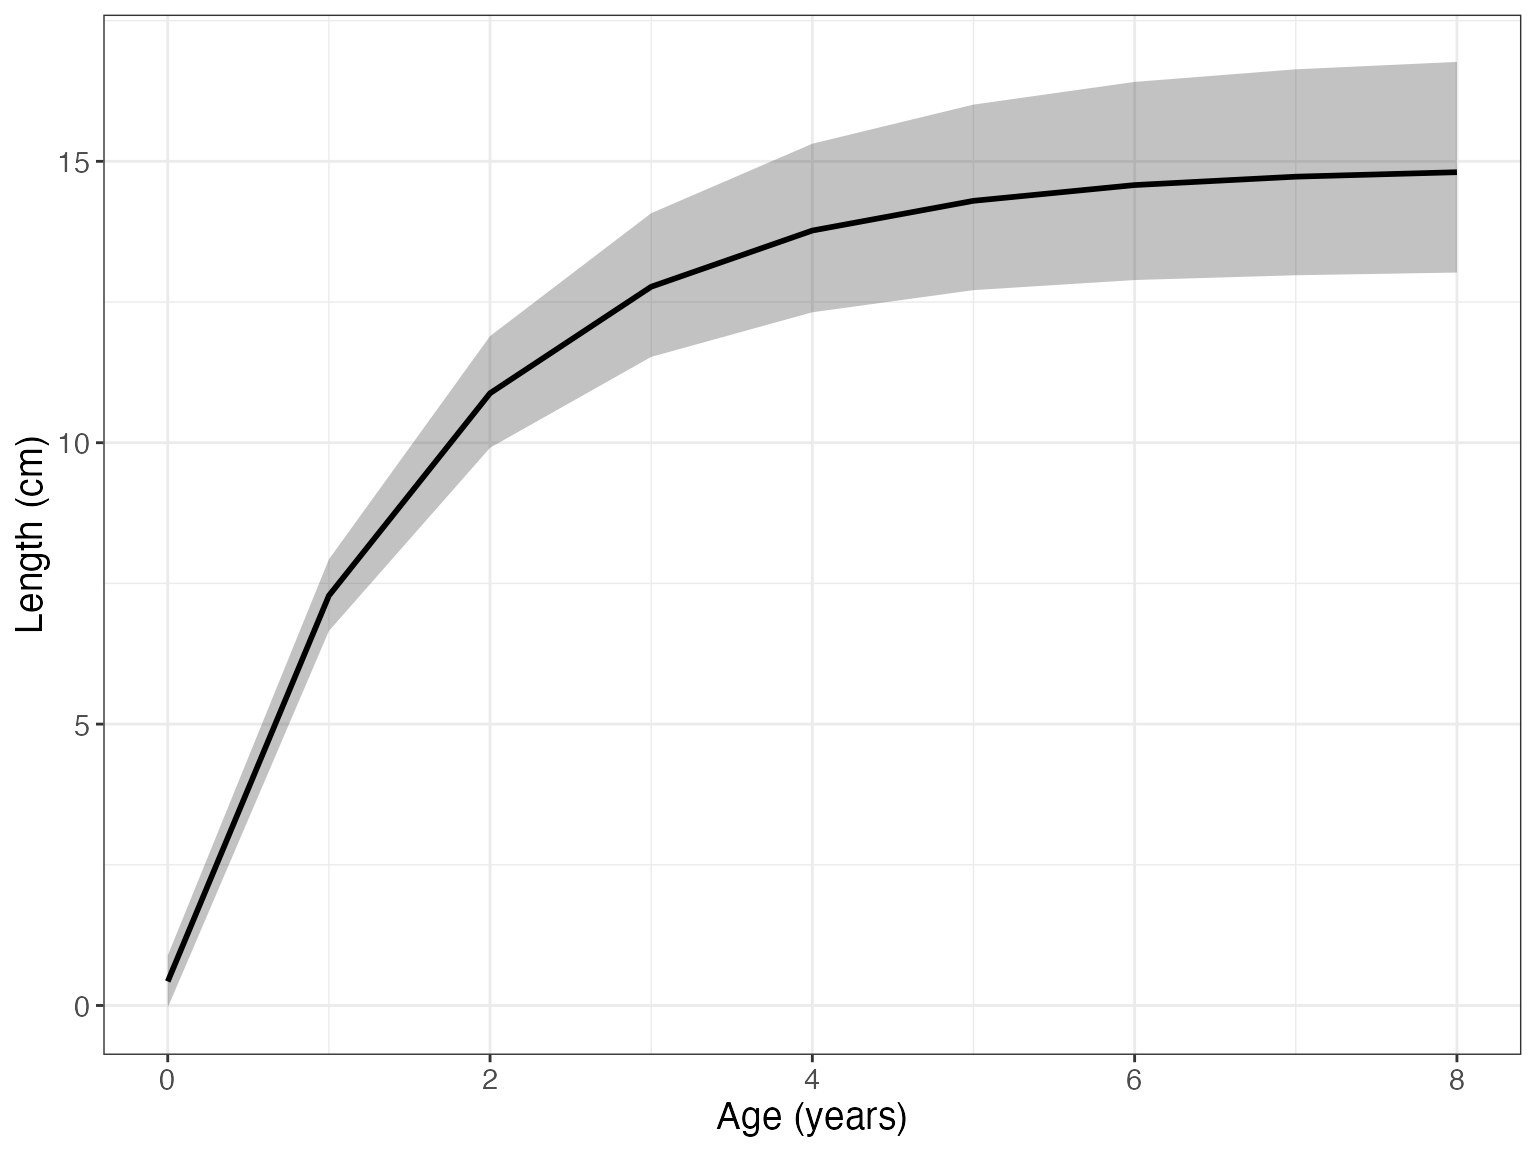
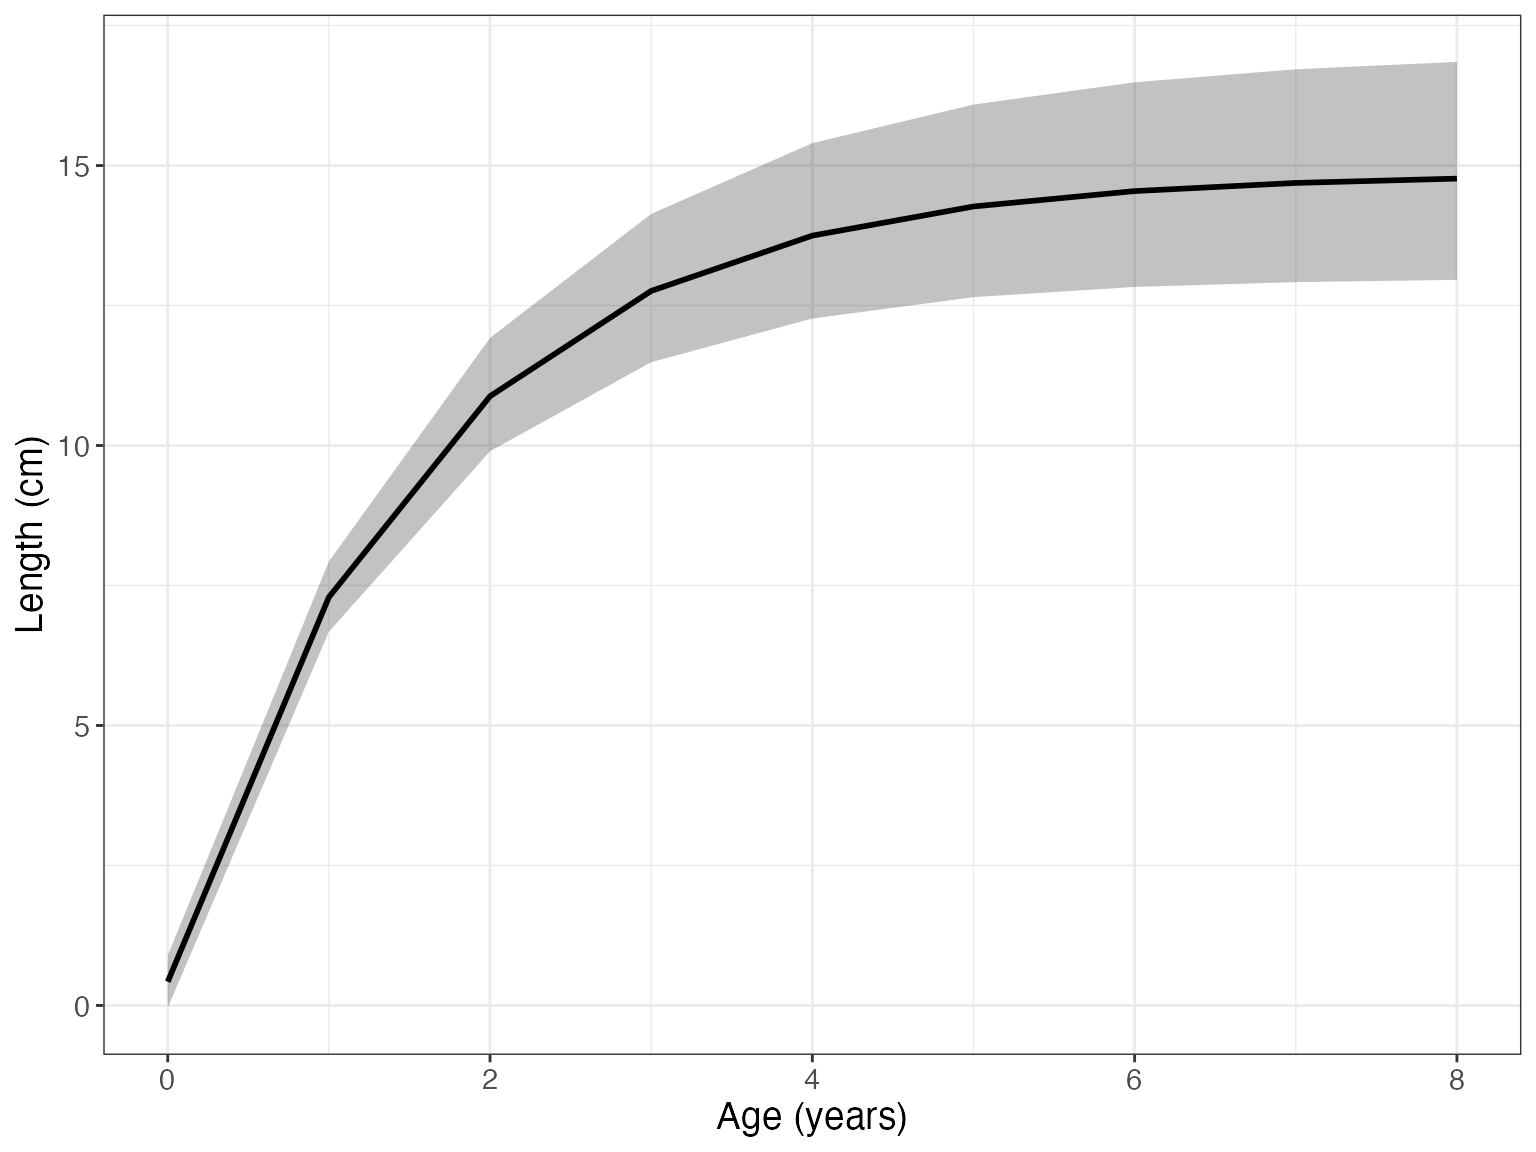
Built site for fishgrowbot: 0.0.0.9@e4bd919

diff --git a/articles/introduction.html b/articles/introduction.html
@@ -109,8 +109,8 @@
 <span class="co">#&gt; </span>
 <span class="co">#&gt; SAMPLING FOR MODEL 'stan_bcalc' NOW (CHAIN 1).</span>
 <span class="co">#&gt; Chain 1: </span>
-<span class="co">#&gt; Chain 1: Gradient evaluation took 4.2e-05 seconds</span>
-<span class="co">#&gt; Chain 1: 1000 transitions using 10 leapfrog steps per transition would take 0.42 seconds.</span>
+<span class="co">#&gt; Chain 1: Gradient evaluation took 4.1e-05 seconds</span>
+<span class="co">#&gt; Chain 1: 1000 transitions using 10 leapfrog steps per transition would take 0.41 seconds.</span>
 <span class="co">#&gt; Chain 1: Adjust your expectations accordingly!</span>
 <span class="co">#&gt; Chain 1: </span>
 <span class="co">#&gt; Chain 1: </span>
@@ -127,15 +127,15 @@
 <span class="co">#&gt; Chain 1: Iteration: 1800 / 2000 [ 90%]  (Sampling)</span>
 <span class="co">#&gt; Chain 1: Iteration: 2000 / 2000 [100%]  (Sampling)</span>
 <span class="co">#&gt; Chain 1: </span>
-<span class="co">#&gt; Chain 1:  Elapsed Time: 0.675487 seconds (Warm-up)</span>
-<span class="co">#&gt; Chain 1:                0.208583 seconds (Sampling)</span>
-<span class="co">#&gt; Chain 1:                0.88407 seconds (Total)</span>
+<span class="co">#&gt; Chain 1:  Elapsed Time: 0.718332 seconds (Warm-up)</span>
+<span class="co">#&gt; Chain 1:                0.202083 seconds (Sampling)</span>
+<span class="co">#&gt; Chain 1:                0.920415 seconds (Total)</span>
 <span class="co">#&gt; Chain 1: </span>
 <span class="co">#&gt; </span>
 <span class="co">#&gt; SAMPLING FOR MODEL 'stan_bcalc' NOW (CHAIN 2).</span>
 <span class="co">#&gt; Chain 2: </span>
-<span class="co">#&gt; Chain 2: Gradient evaluation took 2.4e-05 seconds</span>
-<span class="co">#&gt; Chain 2: 1000 transitions using 10 leapfrog steps per transition would take 0.24 seconds.</span>
+<span class="co">#&gt; Chain 2: Gradient evaluation took 2.2e-05 seconds</span>
+<span class="co">#&gt; Chain 2: 1000 transitions using 10 leapfrog steps per transition would take 0.22 seconds.</span>
 <span class="co">#&gt; Chain 2: Adjust your expectations accordingly!</span>
 <span class="co">#&gt; Chain 2: </span>
 <span class="co">#&gt; Chain 2: </span>
@@ -152,9 +152,9 @@
 <span class="co">#&gt; Chain 2: Iteration: 1800 / 2000 [ 90%]  (Sampling)</span>
 <span class="co">#&gt; Chain 2: Iteration: 2000 / 2000 [100%]  (Sampling)</span>
 <span class="co">#&gt; Chain 2: </span>
-<span class="co">#&gt; Chain 2:  Elapsed Time: 0.734206 seconds (Warm-up)</span>
-<span class="co">#&gt; Chain 2:                0.23753 seconds (Sampling)</span>
-<span class="co">#&gt; Chain 2:                0.971736 seconds (Total)</span>
+<span class="co">#&gt; Chain 2:  Elapsed Time: 0.625257 seconds (Warm-up)</span>
+<span class="co">#&gt; Chain 2:                0.219762 seconds (Sampling)</span>
+<span class="co">#&gt; Chain 2:                0.845019 seconds (Total)</span>
 <span class="co">#&gt; Chain 2: </span>
 <span class="co">#&gt; </span>
 <span class="co">#&gt; SAMPLING FOR MODEL 'stan_bcalc' NOW (CHAIN 3).</span>
@@ -177,15 +177,15 @@
 <span class="co">#&gt; Chain 3: Iteration: 1800 / 2000 [ 90%]  (Sampling)</span>
 <span class="co">#&gt; Chain 3: Iteration: 2000 / 2000 [100%]  (Sampling)</span>
 <span class="co">#&gt; Chain 3: </span>
-<span class="co">#&gt; Chain 3:  Elapsed Time: 0.646115 seconds (Warm-up)</span>
-<span class="co">#&gt; Chain 3:                0.191009 seconds (Sampling)</span>
-<span class="co">#&gt; Chain 3:                0.837124 seconds (Total)</span>
+<span class="co">#&gt; Chain 3:  Elapsed Time: 0.666348 seconds (Warm-up)</span>
+<span class="co">#&gt; Chain 3:                0.208402 seconds (Sampling)</span>
+<span class="co">#&gt; Chain 3:                0.87475 seconds (Total)</span>
 <span class="co">#&gt; Chain 3: </span>
 <span class="co">#&gt; </span>
 <span class="co">#&gt; SAMPLING FOR MODEL 'stan_bcalc' NOW (CHAIN 4).</span>
 <span class="co">#&gt; Chain 4: </span>
-<span class="co">#&gt; Chain 4: Gradient evaluation took 2.6e-05 seconds</span>
-<span class="co">#&gt; Chain 4: 1000 transitions using 10 leapfrog steps per transition would take 0.26 seconds.</span>
+<span class="co">#&gt; Chain 4: Gradient evaluation took 2.4e-05 seconds</span>
+<span class="co">#&gt; Chain 4: 1000 transitions using 10 leapfrog steps per transition would take 0.24 seconds.</span>
 <span class="co">#&gt; Chain 4: Adjust your expectations accordingly!</span>
 <span class="co">#&gt; Chain 4: </span>
 <span class="co">#&gt; Chain 4: </span>
@@ -202,18 +202,18 @@
 <span class="co">#&gt; Chain 4: Iteration: 1800 / 2000 [ 90%]  (Sampling)</span>
 <span class="co">#&gt; Chain 4: Iteration: 2000 / 2000 [100%]  (Sampling)</span>
 <span class="co">#&gt; Chain 4: </span>
-<span class="co">#&gt; Chain 4:  Elapsed Time: 0.642817 seconds (Warm-up)</span>
-<span class="co">#&gt; Chain 4:                0.211837 seconds (Sampling)</span>
-<span class="co">#&gt; Chain 4:                0.854654 seconds (Total)</span>
+<span class="co">#&gt; Chain 4:  Elapsed Time: 0.668641 seconds (Warm-up)</span>
+<span class="co">#&gt; Chain 4:                0.198946 seconds (Sampling)</span>
+<span class="co">#&gt; Chain 4:                0.867587 seconds (Total)</span>
 <span class="co">#&gt; Chain 4:</span>
 <span class="fu"><a href="https://rdrr.io/r/utils/head.html">head</a></span><span class="op">(</span><span class="va">bc</span><span class="op">$</span><span class="va">lengths</span><span class="op">)</span>
 <span class="co">#&gt;                   id age      l_m         l_sd     l_lb     l_ub</span>
-<span class="co">#&gt; 1 EP_ME_MO_03_16_001   0   1.5000 1.082156e-15   1.5000   1.5000</span>
-<span class="co">#&gt; 2 EP_ME_MO_03_16_001   1 154.2248 5.913543e+00 142.4896 165.5389</span>
-<span class="co">#&gt; 3 EP_ME_MO_03_16_001   2 178.3342 4.680277e+00 168.9679 187.2122</span>
-<span class="co">#&gt; 4 EP_ME_MO_03_16_001   3 192.1131 3.833969e+00 184.4075 199.3530</span>
-<span class="co">#&gt; 5 EP_ME_MO_03_16_001   4 205.6257 2.912684e+00 199.7487 211.1030</span>
-<span class="co">#&gt; 6 EP_ME_MO_03_16_001   5 217.7383 2.014689e+00 213.6598 221.5134</span></code></pre></div>
+<span class="co">#&gt; 1 EP_ME_MO_03_16_001   0   1.5000 1.097091e-15   1.5000   1.5000</span>
+<span class="co">#&gt; 2 EP_ME_MO_03_16_001   1 154.4831 5.742962e+00 143.3512 165.9050</span>
+<span class="co">#&gt; 3 EP_ME_MO_03_16_001   2 178.5402 4.536492e+00 169.6656 187.4954</span>
+<span class="co">#&gt; 4 EP_ME_MO_03_16_001   3 192.2825 3.712439e+00 184.9857 199.5823</span>
+<span class="co">#&gt; 5 EP_ME_MO_03_16_001   4 205.7548 2.817732e+00 200.1927 211.2752</span>
+<span class="co">#&gt; 6 EP_ME_MO_03_16_001   5 217.8278 1.947468e+00 213.9697 221.6315</span></code></pre></div>
 <p>The function <code>bcplot</code> helps visualize the back calculation. Some examples:</p>
 <div class="sourceCode" id="cb3"><pre class="downlit sourceCode r">
 <code class="sourceCode R"><span class="fu"><a href="../reference/bcplot.html">bcplot</a></span><span class="op">(</span><span class="va">bc</span><span class="op">$</span><span class="va">lengths</span><span class="op">)</span></code></pre></div>
@@ -241,8 +241,8 @@
 <span class="co">#&gt; </span>
 <span class="co">#&gt; SAMPLING FOR MODEL 'vonbert' NOW (CHAIN 1).</span>
 <span class="co">#&gt; Chain 1: </span>
-<span class="co">#&gt; Chain 1: Gradient evaluation took 9.1e-05 seconds</span>
-<span class="co">#&gt; Chain 1: 1000 transitions using 10 leapfrog steps per transition would take 0.91 seconds.</span>
+<span class="co">#&gt; Chain 1: Gradient evaluation took 9.2e-05 seconds</span>
+<span class="co">#&gt; Chain 1: 1000 transitions using 10 leapfrog steps per transition would take 0.92 seconds.</span>
 <span class="co">#&gt; Chain 1: Adjust your expectations accordingly!</span>
 <span class="co">#&gt; Chain 1: </span>
 <span class="co">#&gt; Chain 1: </span>
@@ -259,15 +259,15 @@
 <span class="co">#&gt; Chain 1: Iteration: 3600 / 4000 [ 90%]  (Sampling)</span>
 <span class="co">#&gt; Chain 1: Iteration: 4000 / 4000 [100%]  (Sampling)</span>
 <span class="co">#&gt; Chain 1: </span>
-<span class="co">#&gt; Chain 1:  Elapsed Time: 7.71765 seconds (Warm-up)</span>
-<span class="co">#&gt; Chain 1:                8.45765 seconds (Sampling)</span>
-<span class="co">#&gt; Chain 1:                16.1753 seconds (Total)</span>
+<span class="co">#&gt; Chain 1:  Elapsed Time: 10.2501 seconds (Warm-up)</span>
+<span class="co">#&gt; Chain 1:                7.91898 seconds (Sampling)</span>
+<span class="co">#&gt; Chain 1:                18.1691 seconds (Total)</span>
 <span class="co">#&gt; Chain 1: </span>
 <span class="co">#&gt; </span>
 <span class="co">#&gt; SAMPLING FOR MODEL 'vonbert' NOW (CHAIN 2).</span>
 <span class="co">#&gt; Chain 2: </span>
-<span class="co">#&gt; Chain 2: Gradient evaluation took 6.3e-05 seconds</span>
-<span class="co">#&gt; Chain 2: 1000 transitions using 10 leapfrog steps per transition would take 0.63 seconds.</span>
+<span class="co">#&gt; Chain 2: Gradient evaluation took 6.4e-05 seconds</span>
+<span class="co">#&gt; Chain 2: 1000 transitions using 10 leapfrog steps per transition would take 0.64 seconds.</span>
 <span class="co">#&gt; Chain 2: Adjust your expectations accordingly!</span>
 <span class="co">#&gt; Chain 2: </span>
 <span class="co">#&gt; Chain 2: </span>
@@ -284,15 +284,15 @@
 <span class="co">#&gt; Chain 2: Iteration: 3600 / 4000 [ 90%]  (Sampling)</span>
 <span class="co">#&gt; Chain 2: Iteration: 4000 / 4000 [100%]  (Sampling)</span>
 <span class="co">#&gt; Chain 2: </span>
-<span class="co">#&gt; Chain 2:  Elapsed Time: 10.661 seconds (Warm-up)</span>
-<span class="co">#&gt; Chain 2:                10.5657 seconds (Sampling)</span>
-<span class="co">#&gt; Chain 2:                21.2267 seconds (Total)</span>
+<span class="co">#&gt; Chain 2:  Elapsed Time: 9.19704 seconds (Warm-up)</span>
+<span class="co">#&gt; Chain 2:                10.994 seconds (Sampling)</span>
+<span class="co">#&gt; Chain 2:                20.191 seconds (Total)</span>
 <span class="co">#&gt; Chain 2: </span>
 <span class="co">#&gt; </span>
 <span class="co">#&gt; SAMPLING FOR MODEL 'vonbert' NOW (CHAIN 3).</span>
 <span class="co">#&gt; Chain 3: </span>
-<span class="co">#&gt; Chain 3: Gradient evaluation took 6.6e-05 seconds</span>
-<span class="co">#&gt; Chain 3: 1000 transitions using 10 leapfrog steps per transition would take 0.66 seconds.</span>
+<span class="co">#&gt; Chain 3: Gradient evaluation took 6.4e-05 seconds</span>
+<span class="co">#&gt; Chain 3: 1000 transitions using 10 leapfrog steps per transition would take 0.64 seconds.</span>
 <span class="co">#&gt; Chain 3: Adjust your expectations accordingly!</span>
 <span class="co">#&gt; Chain 3: </span>
 <span class="co">#&gt; Chain 3: </span>
@@ -309,15 +309,15 @@
 <span class="co">#&gt; Chain 3: Iteration: 3600 / 4000 [ 90%]  (Sampling)</span>
 <span class="co">#&gt; Chain 3: Iteration: 4000 / 4000 [100%]  (Sampling)</span>
 <span class="co">#&gt; Chain 3: </span>
-<span class="co">#&gt; Chain 3:  Elapsed Time: 8.60919 seconds (Warm-up)</span>
-<span class="co">#&gt; Chain 3:                10.7433 seconds (Sampling)</span>
-<span class="co">#&gt; Chain 3:                19.3525 seconds (Total)</span>
+<span class="co">#&gt; Chain 3:  Elapsed Time: 8.38221 seconds (Warm-up)</span>
+<span class="co">#&gt; Chain 3:                11.9217 seconds (Sampling)</span>
+<span class="co">#&gt; Chain 3:                20.304 seconds (Total)</span>
 <span class="co">#&gt; Chain 3: </span>
 <span class="co">#&gt; </span>
 <span class="co">#&gt; SAMPLING FOR MODEL 'vonbert' NOW (CHAIN 4).</span>
 <span class="co">#&gt; Chain 4: </span>
-<span class="co">#&gt; Chain 4: Gradient evaluation took 6.4e-05 seconds</span>
-<span class="co">#&gt; Chain 4: 1000 transitions using 10 leapfrog steps per transition would take 0.64 seconds.</span>
+<span class="co">#&gt; Chain 4: Gradient evaluation took 6.6e-05 seconds</span>
+<span class="co">#&gt; Chain 4: 1000 transitions using 10 leapfrog steps per transition would take 0.66 seconds.</span>
 <span class="co">#&gt; Chain 4: Adjust your expectations accordingly!</span>
 <span class="co">#&gt; Chain 4: </span>
 <span class="co">#&gt; Chain 4: </span>
@@ -334,25 +334,25 @@
 <span class="co">#&gt; Chain 4: Iteration: 3600 / 4000 [ 90%]  (Sampling)</span>
 <span class="co">#&gt; Chain 4: Iteration: 4000 / 4000 [100%]  (Sampling)</span>
 <span class="co">#&gt; Chain 4: </span>
-<span class="co">#&gt; Chain 4:  Elapsed Time: 7.87391 seconds (Warm-up)</span>
-<span class="co">#&gt; Chain 4:                8.07217 seconds (Sampling)</span>
-<span class="co">#&gt; Chain 4:                15.9461 seconds (Total)</span>
+<span class="co">#&gt; Chain 4:  Elapsed Time: 9.86349 seconds (Warm-up)</span>
+<span class="co">#&gt; Chain 4:                8.72955 seconds (Sampling)</span>
+<span class="co">#&gt; Chain 4:                18.593 seconds (Total)</span>
 <span class="co">#&gt; Chain 4:</span>
 
 <span class="co"># summary growth parameters</span>
 <span class="va">growthmodel</span><span class="op">$</span><span class="va">summary</span>
 <span class="co">#&gt;             mean      se_mean         sd        2.5%         25%         50%</span>
-<span class="co">#&gt; k     0.64549698 0.0011981273 0.05332646  0.54685293  0.60950115  0.64270016</span>
-<span class="co">#&gt; linf 14.89875620 0.0362946795 0.98469949 13.06087503 14.24164648 14.86944682</span>
-<span class="co">#&gt; l0    0.42698195 0.0034575375 0.23519061 -0.03836474  0.27015376  0.42588985</span>
-<span class="co">#&gt; t0   -0.04620588 0.0003939174 0.02668197 -0.10023740 -0.06373522 -0.04494893</span>
-<span class="co">#&gt; kmax  0.39715341 0.0008042029 0.04133186  0.32256457  0.36903807  0.39490109</span>
-<span class="co">#&gt;             75%       97.5%</span>
-<span class="co">#&gt; k     0.6793438  0.75560101</span>
-<span class="co">#&gt; linf 15.5326962 16.93279081</span>
-<span class="co">#&gt; l0    0.5863634  0.88840192</span>
-<span class="co">#&gt; t0   -0.0280067  0.00360243</span>
-<span class="co">#&gt; kmax  0.4233960  0.48400395</span></code></pre></div>
+<span class="co">#&gt; k     0.64981773 0.0013033713 0.05315044  0.55339963  0.61320870  0.64776535</span>
+<span class="co">#&gt; linf 14.85511873 0.0381816748 1.00762410 12.99827733 14.17407131 14.80918704</span>
+<span class="co">#&gt; l0    0.42376977 0.0033723317 0.23606622 -0.03915235  0.26387536  0.42749406</span>
+<span class="co">#&gt; t0   -0.04568492 0.0003782997 0.02657041 -0.10106319 -0.06310134 -0.04490312</span>
+<span class="co">#&gt; kmax  0.39804926 0.0007098593 0.04056147  0.32570905  0.36953984  0.39623905</span>
+<span class="co">#&gt;              75%        97.5%</span>
+<span class="co">#&gt; k     0.68363036  0.760255900</span>
+<span class="co">#&gt; linf 15.46894745 17.021170795</span>
+<span class="co">#&gt; l0    0.58280025  0.891734639</span>
+<span class="co">#&gt; t0   -0.02720253  0.003851214</span>
+<span class="co">#&gt; kmax  0.42407057  0.482156128</span></code></pre></div>
 <p>Now we can visualize the fit with the function <code><a href="../reference/gmplot.html">gmplot()</a></code>.</p>
 <div class="sourceCode" id="cb7"><pre class="downlit sourceCode r">
 <code class="sourceCode R"><span class="fu"><a href="../reference/gmplot.html">gmplot</a></span><span class="op">(</span><span class="va">growthmodel</span><span class="op">)</span></code></pre></div>
